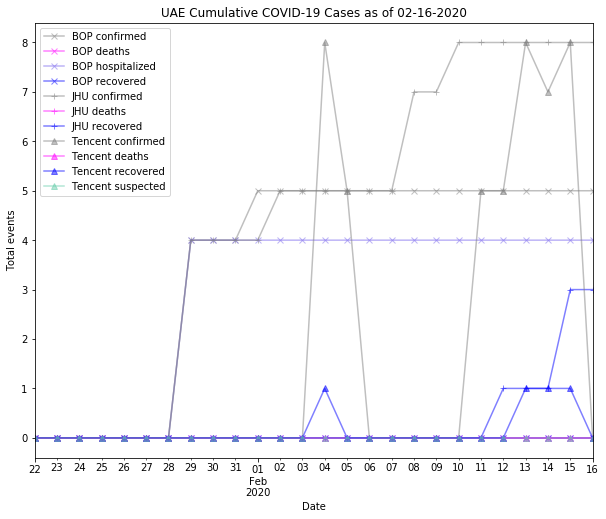
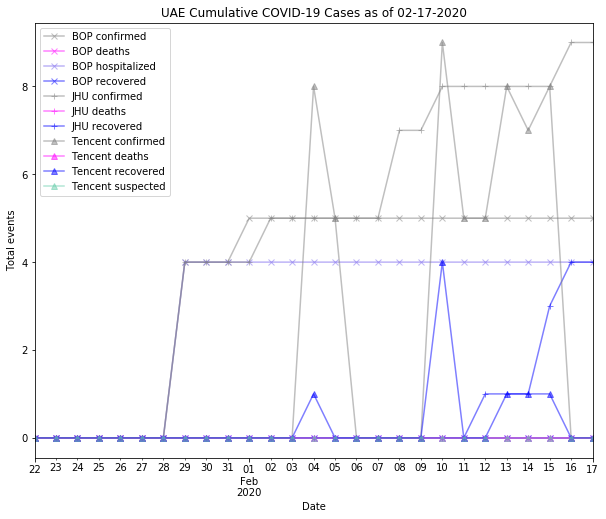
data updated

diff --git a/country_reports/Vietnam_report.md b/country_reports/Vietnam_report.md
@@ -1,6 +1,6 @@
 # Vietnam
 ## NSSAC COVID-19 Summary
-## 02/16/2020
+## 02/17/2020
 
 
 
@@ -14,11 +14,11 @@
 |                           | BOP              | JHU                         | Tencent                       |
 |---------------------------|------------------|-----------------------------|-------------------------------|
 | First update logged       | 01/12/20         | 01/22/20                    | 02/04/20                      |
-| Last update logged        | 02/06/20         | 02/15/20                    | 02/16/20                      |
+| Last update logged        | 02/06/20         | 02/16/20                    | 02/17/20                      |
 | Method                    | Public line list | Cases by day & country list | Daily cases in country scrape |
 | First known case          | 01/23/20         | 01/22/20                    | 02/07/20                      |
 | Total confirmed cases     | 12               | 16                          | 0                             |
-| New cases since yesterday |                  |                             | -16                           |
+| New cases since yesterday |                  |                             | 0                             |
 | Total suspected           |                  |                             | 0                             |
 | Total hospitalized        | 8                |                             |                               |
 | Total recovered           | 0                | 7                           | 0                             |
@@ -38,13 +38,13 @@ Data sources: BOP, JHU, Tencent
 |----|----------|------------------------------|-------------|
 |  8 | Tencent  | Vietnam                      |          16 |
 |  0 | JHU      | Vietnam                      |          16 |
-|  1 | BOP      | Khanh Hoa province, Vietnam  |           2 |
-|  2 | BOP      | Vinh Phuc, Vietnam           |           2 |
-|  3 | BOP      | Vinh Phuc province, Vietnam  |           1 |
-|  4 | BOP      | Thanh Hoa, Vietnam           |           1 |
-|  5 | BOP      | Vinh Phuc Province, Vietnam  |           1 |
-|  6 | BOP      | Viinh Phuc Province, Vietnam |           1 |
-|  7 | BOP      | Nha Trang, Vietnam           |           1 |
+|  1 | BOP      | Vinh Phuc, Vietnam           |           2 |
+|  2 | BOP      | Khanh Hoa province, Vietnam  |           2 |
+|  3 | BOP      | Thanh Hoa, Vietnam           |           1 |
+|  4 | BOP      | Vinh Phuc province, Vietnam  |           1 |
+|  5 | BOP      | Viinh Phuc Province, Vietnam |           1 |
+|  6 | BOP      | Nha Trang, Vietnam           |           1 |
+|  7 | BOP      | Vinh Phuc Province, Vietnam  |           1 |
 
 Data sources: BOP, JHU, Tencent
 

diff --git a/country_reports/Thailand_report.md b/country_reports/Thailand_report.md
@@ -1,6 +1,6 @@
 # Thailand
 ## NSSAC COVID-19 Summary
-## 02/16/2020
+## 02/17/2020
 
 
 
@@ -14,14 +14,14 @@
 |                           | BOP              | JHU                         | Tencent                       |
 |---------------------------|------------------|-----------------------------|-------------------------------|
 | First update logged       | 01/12/20         | 01/22/20                    | 02/04/20                      |
-| Last update logged        | 02/06/20         | 02/15/20                    | 02/16/20                      |
+| Last update logged        | 02/06/20         | 02/16/20                    | 02/17/20                      |
 | Method                    | Public line list | Cases by day & country list | Daily cases in country scrape |
 | First known case          | 01/12/20         | 01/22/20                    | 02/04/20                      |
-| Total confirmed cases     | 25               | 33                          | 34                            |
-| New cases since yesterday |                  |                             | 0                             |
+| Total confirmed cases     | 25               | 34                          | 35                            |
+| New cases since yesterday |                  |                             | 1                             |
 | Total suspected           |                  |                             | 0                             |
 | Total hospitalized        | 3                |                             |                               |
-| Total recovered           | 0                | 12                          | 14                            |
+| Total recovered           | 0                | 14                          | 14                            |
 | Total deaths              | 0                | 0                           | 0                             |
 
 Data sources: BOP, JHU, Tencent
@@ -36,8 +36,8 @@ Data sources: BOP, JHU, Tencent
 
 |    | source   | loc_name                |   confirmed |
 |----|----------|-------------------------|-------------|
-|  3 | Tencent  | Thailand                |          34 |
-|  0 | JHU      | Thailand                |          33 |
+|  3 | Tencent  | Thailand                |          35 |
+|  0 | JHU      | Thailand                |          34 |
 |  1 | BOP      | Nonthaburi, Thailand    |           1 |
 |  2 | BOP      | Nakhon Pathom, Thailand |           1 |
 

diff --git a/country_reports/UAE_report.md b/country_reports/UAE_report.md
@@ -1,6 +1,6 @@
 # UAE
 ## NSSAC COVID-19 Summary
-## 02/16/2020
+## 02/17/2020
 
 
 
@@ -14,14 +14,14 @@
 |                           | BOP              | JHU                         | Tencent                       |
 |---------------------------|------------------|-----------------------------|-------------------------------|
 | First update logged       | 01/12/20         | 01/22/20                    | 02/04/20                      |
-| Last update logged        | 02/06/20         | 02/15/20                    | 02/16/20                      |
+| Last update logged        | 02/06/20         | 02/16/20                    | 02/17/20                      |
 | Method                    | Public line list | Cases by day & country list | Daily cases in country scrape |
 | First known case          | 01/29/20         | 01/22/20                    | 02/06/20                      |
-| Total confirmed cases     | 5                | 8                           | 0                             |
-| New cases since yesterday |                  |                             | -8                            |
+| Total confirmed cases     | 5                | 9                           | 0                             |
+| New cases since yesterday |                  |                             | 0                             |
 | Total suspected           |                  |                             | 0                             |
 | Total hospitalized        | 4                |                             |                               |
-| Total recovered           | 0                | 3                           | 0                             |
+| Total recovered           | 0                | 4                           | 0                             |
 | Total deaths              | 0                | 0                           | 0                             |
 
 Data sources: BOP, JHU, Tencent
@@ -36,8 +36,8 @@ Data sources: BOP, JHU, Tencent
 
 |    | source   | loc_name             |   confirmed |
 |----|----------|----------------------|-------------|
-|  2 | Tencent  | United Arab Emirates |           8 |
-|  0 | JHU      | United Arab Emirates |           8 |
+|  2 | Tencent  | United Arab Emirates |           9 |
+|  0 | JHU      | United Arab Emirates |           9 |
 |  1 | BOP      | UAE                  |           5 |
 
 Data sources: BOP, JHU, Tencent

diff --git a/country_reports/United_States_report.md b/country_reports/United_States_report.md
@@ -1,6 +1,6 @@
 # United States
 ## NSSAC COVID-19 Summary
-## 02/16/2020
+## 02/17/2020
 
 
 
@@ -14,11 +14,11 @@
 |                           | BOP              | JHU                         | Tencent                       |
 |---------------------------|------------------|-----------------------------|-------------------------------|
 | First update logged       | 01/12/20         | 01/22/20                    | 02/04/20                      |
-| Last update logged        | 02/06/20         | 02/15/20                    | 02/16/20                      |
+| Last update logged        | 02/06/20         | 02/16/20                    | 02/17/20                      |
 | Method                    | Public line list | Cases by day & country list | Daily cases in country scrape |
 | First known case          | 01/20/20         | 01/22/20                    | 02/07/20                      |
 | Total confirmed cases     | 12               | 15                          | 0                             |
-| New cases since yesterday |                  |                             | -15                           |
+| New cases since yesterday |                  |                             | 0                             |
 | Total suspected           |                  |                             | 0                             |
 | Total hospitalized        | 2                |                             |                               |
 | Total recovered           | 0                | 3                           | 0                             |
@@ -50,10 +50,10 @@ Data sources: BOP, JHU, Tencent
 |  0 | JHU      | Seattle, WA, US                 |           1 |
 | 11 | BOP      | California, United States       |           6 |
 | 12 | BOP      | Illinois, United States         |           2 |
-| 13 | BOP      | Wisconsin, United States        |           1 |
-| 14 | BOP      | Arizona, United States          |           1 |
-| 15 | BOP      | Massachusetts, United States    |           1 |
-| 16 | BOP      | Washington State, United States |           1 |
+| 13 | BOP      | Arizona, United States          |           1 |
+| 14 | BOP      | Massachusetts, United States    |           1 |
+| 15 | BOP      | Washington State, United States |           1 |
+| 16 | BOP      | Wisconsin, United States        |           1 |
 
 Data sources: BOP, JHU, Tencent
 

diff --git a/country_reports/Singapore_report.md b/country_reports/Singapore_report.md
@@ -1,6 +1,6 @@
 # Singapore
 ## NSSAC COVID-19 Summary
-## 02/16/2020
+## 02/17/2020
 
 
 
@@ -14,14 +14,14 @@
 |                           | BOP              | JHU                         | Tencent                       |
 |---------------------------|------------------|-----------------------------|-------------------------------|
 | First update logged       | 01/12/20         | 01/22/20                    | 02/04/20                      |
-| Last update logged        | 02/06/20         | 02/15/20                    | 02/16/20                      |
+| Last update logged        | 02/06/20         | 02/16/20                    | 02/17/20                      |
 | Method                    | Public line list | Cases by day & country list | Daily cases in country scrape |
 | First known case          | 01/23/20         | 01/22/20                    | 02/04/20                      |
-| Total confirmed cases     | 28               | 72                          | 72                            |
-| New cases since yesterday |                  |                             | 5                             |
+| Total confirmed cases     | 28               | 75                          | 75                            |
+| New cases since yesterday |                  |                             | 3                             |
 | Total suspected           |                  |                             | 0                             |
 | Total hospitalized        | 17               |                             |                               |
-| Total recovered           | 0                | 18                          | 18                            |
+| Total recovered           | 0                | 18                          | 19                            |
 | Total deaths              | 0                | 0                           | 0                             |
 
 Data sources: BOP, JHU, Tencent
@@ -36,8 +36,8 @@ Data sources: BOP, JHU, Tencent
 
 |    | source   | loc_name   |   confirmed |
 |----|----------|------------|-------------|
-|  2 | Tencent  | Singapore  |          72 |
-|  0 | JHU      | Singapore  |          72 |
+|  2 | Tencent  | Singapore  |          75 |
+|  0 | JHU      | Singapore  |          75 |
 |  1 | BOP      | Singapore  |          28 |
 
 Data sources: BOP, JHU, Tencent

diff --git a/country_reports/South_Korea_report.md b/country_reports/South_Korea_report.md
@@ -1,6 +1,6 @@
 # South Korea
 ## NSSAC COVID-19 Summary
-## 02/16/2020
+## 02/17/2020
 
 
 
@@ -14,11 +14,11 @@
 |                           | BOP              | JHU                         | Tencent                       |
 |---------------------------|------------------|-----------------------------|-------------------------------|
 | First update logged       | 01/12/20         | 01/22/20                    | 02/04/20                      |
-| Last update logged        | 02/06/20         | 02/15/20                    | 02/16/20                      |
+| Last update logged        | 02/06/20         | 02/16/20                    | 02/17/20                      |
 | Method                    | Public line list | Cases by day & country list | Daily cases in country scrape |
 | First known case          | 01/20/20         | 01/22/20                    | 02/16/20                      |
-| Total confirmed cases     | 21               | 28                          | 0                             |
-| New cases since yesterday |                  |                             | -28                           |
+| Total confirmed cases     | 21               | 29                          | 0                             |
+| New cases since yesterday |                  |                             | 0                             |
 | Total suspected           |                  |                             | 0                             |
 | Total hospitalized        | 5                |                             |                               |
 | Total recovered           | 0                | 9                           | 0                             |
@@ -36,8 +36,8 @@ Data sources: BOP, JHU, Tencent
 
 |    | source   | loc_name              |   confirmed |
 |----|----------|-----------------------|-------------|
-|  2 | Tencent  | Korea                 |          29 |
-|  0 | JHU      | South Korea           |          28 |
+|  2 | Tencent  | Korea                 |          30 |
+|  0 | JHU      | South Korea           |          29 |
 |  1 | BOP      | Gyeonggi, South Korea |           1 |
 
 Data sources: BOP, JHU, Tencent

diff --git a/country_reports/Taiwan_report.md b/country_reports/Taiwan_report.md
@@ -1,6 +1,6 @@
 # Taiwan
 ## NSSAC COVID-19 Summary
-## 02/16/2020
+## 02/17/2020
 
 
 
@@ -14,15 +14,15 @@
 |                           | BOP              | JHU                         | Tencent                       |
 |---------------------------|------------------|-----------------------------|-------------------------------|
 | First update logged       | 01/12/20         | 01/22/20                    | 02/04/20                      |
-| Last update logged        | 02/06/20         | 02/15/20                    | 02/16/20                      |
+| Last update logged        | 02/06/20         | 02/16/20                    | 02/17/20                      |
 | Method                    | Public line list | Cases by day & country list | Daily cases in country scrape |
 | First known case          | 02/06/20         | 01/22/20                    | 02/04/20                      |
-| Total confirmed cases     | 3                | 18                          | 20                            |
+| Total confirmed cases     | 3                | 20                          | 22                            |
 | New cases since yesterday |                  |                             | 2                             |
 | Total suspected           |                  |                             | 0                             |
 | Total hospitalized        | 3                |                             |                               |
 | Total recovered           | 0                | 2                           | 2                             |
-| Total deaths              | 0                | 0                           | 1                             |
+| Total deaths              | 0                | 1                           | 1                             |
 
 Data sources: BOP, JHU, Tencent
 
@@ -36,7 +36,7 @@ Data sources: BOP, JHU, Tencent
 
 |    | source   | loc_name       |   confirmed |
 |----|----------|----------------|-------------|
-|  0 | JHU      | Taiwan, Taiwan |          18 |
+|  0 | JHU      | Taiwan, Taiwan |          20 |
 |  1 | BOP      | Taiwan         |           3 |
 
 Data sources: BOP, JHU, Tencent

diff --git a/country_reports/Russia_report.md b/country_reports/Russia_report.md
@@ -1,6 +1,6 @@
 # Russia
 ## NSSAC COVID-19 Summary
-## 02/16/2020
+## 02/17/2020
 
 
 
@@ -14,11 +14,11 @@
 |                           | BOP              | JHU                         | Tencent                       |
 |---------------------------|------------------|-----------------------------|-------------------------------|
 | First update logged       | 01/12/20         | 01/22/20                    | 02/04/20                      |
-| Last update logged        | 02/06/20         | 02/15/20                    | 02/16/20                      |
+| Last update logged        | 02/06/20         | 02/16/20                    | 02/17/20                      |
 | Method                    | Public line list | Cases by day & country list | Daily cases in country scrape |
 | First known case          | 01/31/20         | 01/22/20                    | 02/06/20                      |
 | Total confirmed cases     | 2                | 2                           | 0                             |
-| New cases since yesterday |                  |                             | -2                            |
+| New cases since yesterday |                  |                             | 0                             |
 | Total suspected           |                  |                             | 0                             |
 | Total hospitalized        | 0                |                             |                               |
 | Total recovered           | 0                | 2                           | 0                             |
@@ -38,8 +38,8 @@ Data sources: BOP, JHU, Tencent
 |----|----------|-----------------------|-------------|
 |  3 | Tencent  | Russia                |           2 |
 |  0 | JHU      | Russia                |           2 |
-|  1 | BOP      | Tyumen, Russia        |           1 |
-|  2 | BOP      | Transbaikalia, Russia |           1 |
+|  1 | BOP      | Transbaikalia, Russia |           1 |
+|  2 | BOP      | Tyumen, Russia        |           1 |
 
 Data sources: BOP, JHU, Tencent
 

diff --git a/country_reports/United_Kingdom_report.md b/country_reports/United_Kingdom_report.md
@@ -1,6 +1,6 @@
 # United Kingdom
 ## NSSAC COVID-19 Summary
-## 02/16/2020
+## 02/17/2020
 
 
 
@@ -14,14 +14,14 @@
 |                           | BOP              | JHU                         | Tencent                       |
 |---------------------------|------------------|-----------------------------|-------------------------------|
 | First update logged       | 01/12/20         | 01/22/20                    | 02/04/20                      |
-| Last update logged        | 02/06/20         | 02/15/20                    | 02/16/20                      |
+| Last update logged        | 02/06/20         | 02/16/20                    | 02/17/20                      |
 | Method                    | Public line list | Cases by day & country list | Daily cases in country scrape |
 | First known case          | 01/31/20         | 01/22/20                    | 02/06/20                      |
 | Total confirmed cases     | 3                | 9                           | 0                             |
-| New cases since yesterday |                  |                             | -8                            |
+| New cases since yesterday |                  |                             | 0                             |
 | Total suspected           |                  |                             | 0                             |
 | Total hospitalized        | 0                |                             |                               |
-| Total recovered           | 0                | 1                           | 0                             |
+| Total recovered           | 0                | 8                           | 0                             |
 | Total deaths              | 0                | 0                           | 0                             |
 
 Data sources: BOP, JHU, Tencent

diff --git a/country_reports/Sri_Lanka_report.md b/country_reports/Sri_Lanka_report.md
@@ -1,6 +1,6 @@
 # Sri Lanka
 ## NSSAC COVID-19 Summary
-## 02/16/2020
+## 02/17/2020
 
 
 
@@ -14,11 +14,11 @@
 |                           | BOP              | JHU                         | Tencent                       |
 |---------------------------|------------------|-----------------------------|-------------------------------|
 | First update logged       | 01/12/20         | 01/22/20                    | 02/04/20                      |
-| Last update logged        | 02/06/20         | 02/15/20                    | 02/16/20                      |
+| Last update logged        | 02/06/20         | 02/16/20                    | 02/17/20                      |
 | Method                    | Public line list | Cases by day & country list | Daily cases in country scrape |
 | First known case          | 01/27/20         | 01/22/20                    | 02/06/20                      |
 | Total confirmed cases     | 1                | 1                           | 0                             |
-| New cases since yesterday |                  |                             | -1                            |
+| New cases since yesterday |                  |                             | 0                             |
 | Total suspected           |                  |                             | 0                             |
 | Total hospitalized        | 1                |                             |                               |
 | Total recovered           | 0                | 1                           | 0                             |

diff --git a/country_reports/Japan_report.md b/country_reports/Japan_report.md
@@ -40,14 +40,14 @@ Data sources: BOP, JHU, Tencent
 |  0 | JHU      | Japan                   |          59 |
 |  1 | BOP      | Kanagawa, Japan         |          21 |
 |  2 | BOP      | Tokyo, Japan            |           8 |
-|  3 | BOP      | Chiba, Japan            |           2 |
-|  4 | BOP      | Kyoto, Japan            |           2 |
+|  3 | BOP      | Kyoto, Japan            |           2 |
+|  4 | BOP      | Chiba, Japan            |           2 |
 |  5 | BOP      | Mie, Japan              |           1 |
-|  6 | BOP      | Osaka, Japan            |           1 |
-|  7 | BOP      | Kyoto Prefecture, Japan |           1 |
-|  8 | BOP      | Nara Prefecture, Japan  |           1 |
-|  9 | BOP      | Hokkaido, Japan         |           1 |
-| 10 | BOP      | Chiba Prefecture, Japan |           1 |
+|  6 | BOP      | Chiba Prefecture, Japan |           1 |
+|  7 | BOP      | Hokkaido, Japan         |           1 |
+|  8 | BOP      | Kyoto Prefecture, Japan |           1 |
+|  9 | BOP      | Nara Prefecture, Japan  |           1 |
+| 10 | BOP      | Osaka, Japan            |           1 |
 
 Data sources: BOP, JHU, Tencent
 

diff --git a/country_reports/Sweden_report.md b/country_reports/Sweden_report.md
@@ -1,6 +1,6 @@
 # Sweden
 ## NSSAC COVID-19 Summary
-## 02/16/2020
+## 02/17/2020
 
 
 
@@ -14,7 +14,7 @@
 |                           | BOP              | JHU                         | Tencent                       |
 |---------------------------|------------------|-----------------------------|-------------------------------|
 | First update logged       | 01/12/20         | 01/22/20                    | 02/04/20                      |
-| Last update logged        | 02/06/20         | 02/15/20                    | 02/16/20                      |
+| Last update logged        | 02/06/20         | 02/16/20                    | 02/17/20                      |
 | Method                    | Public line list | Cases by day & country list | Daily cases in country scrape |
 | First known case          | 01/31/20         | 01/22/20                    | 02/04/20                      |
 | Total confirmed cases     | 1                | 1                           | 0                             |
